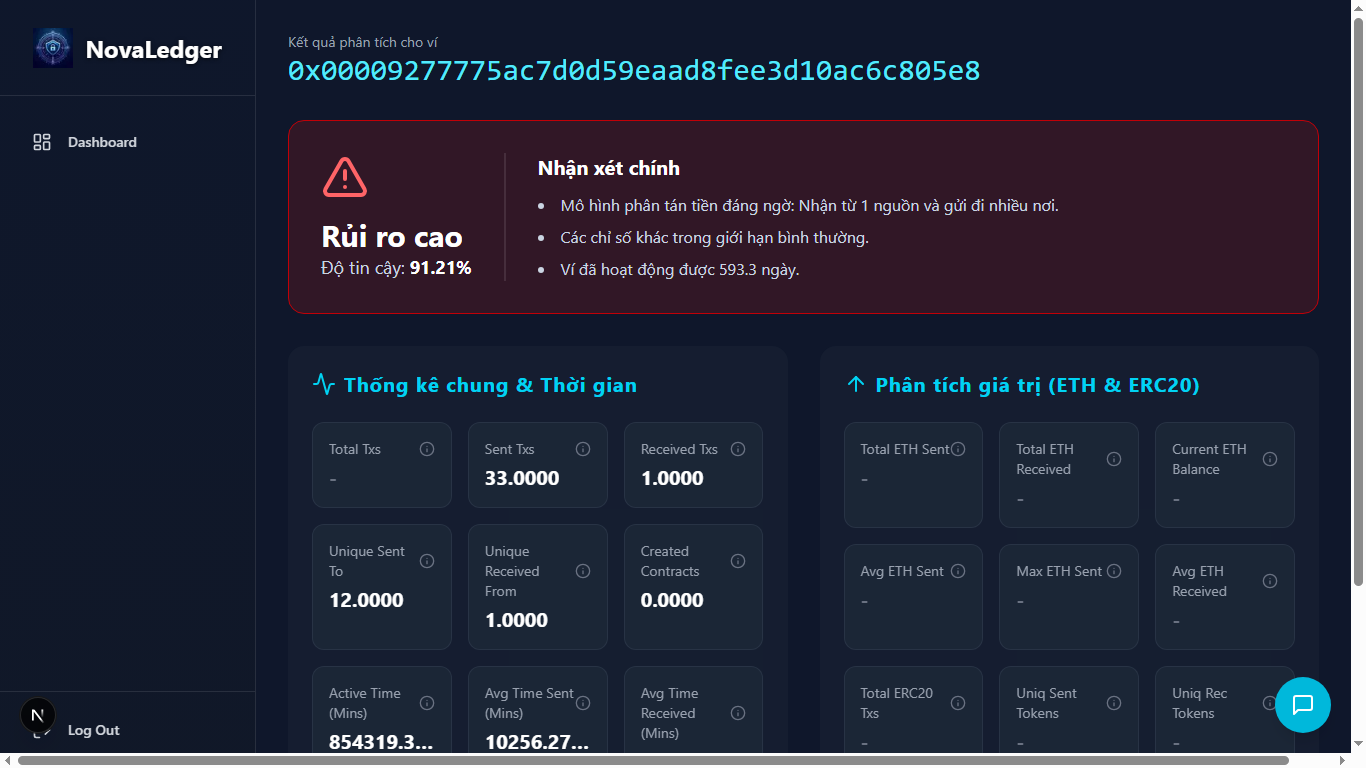
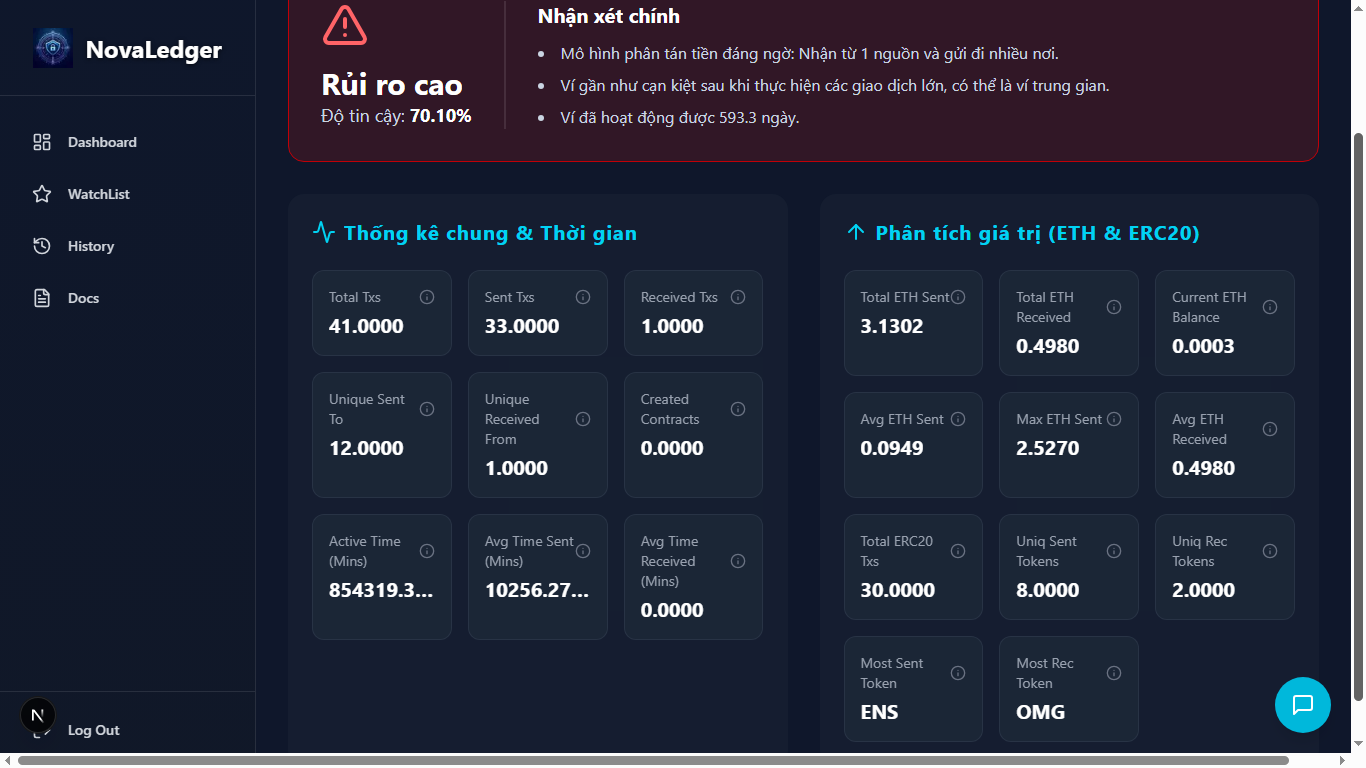
Config covalentService

diff --git a/FE_Novaledger/src/services/covalentServiece.ts b/FE_Novaledger/src/services/covalentServiece.ts
@@ -2,111 +2,188 @@ import axios from 'axios';
 import { Buffer } from 'buffer';
 import { CovalentTransaction, BalanceItem, WalletFeatures } from '@/types/analysis';
 
-const COVALENT_API_KEY = process.env.COVALENT_API_KEY;
+const COVALENT_API_KEY = process.env.COVALENT_API_KEY!;
 const CHAIN_NAME = 'eth-mainnet';
-const MAX_PAGES_TO_FETCH = 50; 
+const MAX_PAGES_TO_FETCH = 50;
 
 const headers = {
   'Authorization': `Basic ${Buffer.from(COVALENT_API_KEY + ':').toString('base64')}`
 };
 
 async function fetchAllTransactions(address: string): Promise<CovalentTransaction[]> {
-    const allItems: CovalentTransaction[] = [];
-    let pageNumber = 0;
-    let hasMore = true;
-    console.log(`Fetching all transactions for ${address}`);
+  const allItems: CovalentTransaction[] = [];
+  let pageNumber = 0;
+  let hasMore = true;
 
-    while (hasMore && pageNumber < MAX_PAGES_TO_FETCH) {
-        const url = `https://api.covalenthq.com/v1/${CHAIN_NAME}/address/${address}/transactions_v3/?page-number=${pageNumber}`;
-        try {
-            const res = await axios.get(url, { headers });
-            const data = res.data?.data;
-            if (data?.items) {
-                allItems.push(...data.items);
-                hasMore = data.pagination ? data.pagination.has_more : false;
-            } else {
-                hasMore = false;
-            }
-            pageNumber++;
-        } catch (error: any) {
-            console.error(`Covalent API Error on page ${pageNumber}: ${error.response?.data?.error_message || error.message}`);
-            hasMore = false; 
-        }
+  while (hasMore && pageNumber < MAX_PAGES_TO_FETCH) {
+    const url = `https://api.covalenthq.com/v1/${CHAIN_NAME}/address/${address}/transactions_v3/?page-number=${pageNumber}`;
+    try {
+      const res = await axios.get(url, { headers });
+      const data = res.data?.data;
+      if (data?.items) {
+        allItems.push(...data.items);
+        hasMore = data.pagination?.has_more ?? false;
+      } else {
+        hasMore = false;
+      }
+      pageNumber++;
+    } catch (error: any) {
+      console.error(`Covalent API Error on page ${pageNumber}: ${error.response?.data?.error_message || error.message}`);
+      hasMore = false;
     }
-    return allItems;
+  }
+
+  return allItems;
 }
 
 async function fetchBalance(address: string): Promise<{ items: BalanceItem[] }> {
-    const url = `https://api.covalenthq.com/v1/${CHAIN_NAME}/address/${address}/balances_v2/`;
-    const res = await axios.get(url, { headers });
-    return res.data.data;
+  const url = `https://api.covalenthq.com/v1/${CHAIN_NAME}/address/${address}/balances_v2/`;
+  const res = await axios.get(url, { headers });
+  return res.data.data;
 }
 
 function calculateAllFeatures(address: string, allTxs: CovalentTransaction[], balanceData: { items: BalanceItem[] }): WalletFeatures {
-    const addr = address.toLowerCase();
-    const features: Partial<WalletFeatures> = {};
-    const toEther = (wei: string | undefined) => (wei ? Number(BigInt(wei)) / 1e18 : 0);
-    const getStats = (arr: number[]) => {
-        if (arr.length === 0) return { min: 0, max: 0, avg: 0 };
-        const sum = arr.reduce((a, b) => a + b, 0);
-        return { min: Math.min(...arr), max: Math.max(...arr), avg: sum / arr.length };
-    };
-    const getTimeDiffs = (txs: any[]) => {
-        if (txs.length < 2) return [];
-        const ts = txs.map(tx => new Date(tx.block_signed_at).getTime()).sort((a, b) => a - b);
-        return ts.slice(1).map((t, i) => (t - ts[i]) / 60000); // In minutes
-    };
-    const getAvg = (arr: number[]) => arr.length === 0 ? 0 : arr.reduce((a, b) => a + b, 0) / arr.length;
-    const getMostCommon = (arr: (string | null)[]) => {
-        if (arr.length === 0) return null;
-        const counts = arr.reduce((acc, val) => {
-            if (val === null) return acc;
-            acc[val] = (acc[val] || 0) + 1;
-            return acc;
-        }, {} as Record<string, number>);
-        return Object.keys(counts).length > 0 ? Object.keys(counts).reduce((a, b) => counts[a] > counts[b] ? a : b) : null;
-    };
+  const addr = address.toLowerCase();
+  const features: Partial<WalletFeatures> = {};
 
-    const sentTxs = allTxs.filter(tx => tx.from_address.toLowerCase() === addr);
-    const receivedTxs = allTxs.filter(tx => tx.to_address && tx.to_address.toLowerCase() === addr);
-    const contractCreationTxs = sentTxs.filter(tx => tx.to_address === null);
-    const sentToContractTxs = sentTxs.filter(tx => tx.to_address_is_contract);
-    features.Index = 0;
-    features.Address = address;
-    features.FLAG = 0; 
+  const toEther = (wei: string | undefined) => wei ? Number(BigInt(wei)) / 1e18 : 0;
+  const getStats = (arr: number[]) => {
+    if (arr.length === 0) return { min: 0, max: 0, avg: 0 };
+    const sum = arr.reduce((a, b) => a + b, 0);
+    return { min: Math.min(...arr), max: Math.max(...arr), avg: sum / arr.length };
+  };
+  const getTimeDiffs = (txs: any[]) => {
+    if (txs.length < 2) return [];
+    const ts = txs.map(tx => new Date(tx.block_signed_at).getTime()).sort((a, b) => a - b);
+    return ts.slice(1).map((t, i) => (t - ts[i]) / 60000); // phút
+  };
+  const getAvg = (arr: number[]) => arr.length === 0 ? 0 : arr.reduce((a, b) => a + b, 0) / arr.length;
+  const getMostCommon = (arr: (string | null | undefined)[]) => {
+    const counts = arr.reduce((acc, val) => {
+      if (!val) return acc;
+      acc[val] = (acc[val] || 0) + 1;
+      return acc;
+    }, {} as Record<string, number>);
+    return Object.entries(counts).reduce((a, b) => a[1] > b[1] ? a : b, ['', 0])[0] || null;
+  };
 
-    const allTimestamps = allTxs.map(tx => new Date(tx.block_signed_at).getTime());
-    const firstTxTime = allTimestamps.length > 0 ? Math.min(...allTimestamps) : 0;
-    const lastTxTime = allTimestamps.length > 0 ? Math.max(...allTimestamps) : 0;
-    features['Time Diff between first and last (Mins)'] = allTimestamps.length > 1 ? (lastTxTime - firstTxTime) / 60000 : 0;
-    features['Avg min between sent tnx'] = getAvg(getTimeDiffs(sentTxs));
-    features['Avg min between received tnx'] = getAvg(getTimeDiffs(receivedTxs));
-    features['Sent tnx'] = sentTxs.length;
-    features['Received Tnx'] = receivedTxs.length;
-    features['Number of Created Contracts'] = contractCreationTxs.length;
-    features['Unique Received From Addresses'] = new Set(receivedTxs.map(tx => tx.from_address)).size;
-    features['Unique Sent To Addresses'] = new Set(sentTxs.map(tx => tx.to_address).filter(Boolean)).size;
-    return features as WalletFeatures;
+  const sentTxs = allTxs.filter(tx => tx.from_address.toLowerCase() === addr);
+  const receivedTxs = allTxs.filter(tx => tx.to_address?.toLowerCase() === addr);
+  const contractCreationTxs = sentTxs.filter(tx => tx.to_address === null);
+  const sentToContractTxs = sentTxs.filter(tx => tx.to_address_is_contract);
+
+  const tokenTransfers = allTxs.flatMap(tx => tx.log_events || [])
+    .filter(log => log.decoded?.name === "Transfer" && log.decoded.params)
+    .map(log => {
+      const from = log.decoded.params.find((p: any) => p.name === 'from');
+      const to = log.decoded.params.find((p: any) => p.name === 'to');
+      const value = log.decoded.params.find((p: any) => p.name === 'value');
+      return {
+        block_signed_at: log.block_signed_at,
+        from_address: from?.value,
+        to_address: to?.value,
+        to_address_is_contract: to?.is_contract,
+        token_symbol: log.sender_contract_ticker_symbol,
+        value_quote: value?.value_quote ? Number(value.value_quote) : 0
+      };
+    })
+    .filter(t => t.from_address && t.to_address);
+
+  const sentTokens = tokenTransfers.filter(t => t.from_address?.toLowerCase() === addr);
+  const receivedTokens = tokenTransfers.filter(t => t.to_address?.toLowerCase() === addr);
+  const sentTokensToContract = sentTokens.filter(t => t.to_address_is_contract);
+
+  const allTimestamps = allTxs.map(tx => new Date(tx.block_signed_at).getTime());
+  const firstTxTime = allTimestamps.length > 0 ? Math.min(...allTimestamps) : 0;
+  const lastTxTime = allTimestamps.length > 0 ? Math.max(...allTimestamps) : 0;
+
+  features.Index = 0;
+  features.Address = address;
+  features.FLAG = 0;
+
+  features['Time Diff between first and last (Mins)'] = allTimestamps.length > 1 ? (lastTxTime - firstTxTime) / 60000 : 0;
+  features['Avg min between sent tnx'] = getAvg(getTimeDiffs(sentTxs));
+  features['Avg min between received tnx'] = getAvg(getTimeDiffs(receivedTxs));
+  features['Sent tnx'] = sentTxs.length;
+  features['Received Tnx'] = receivedTxs.length;
+  features['Number of Created Contracts'] = contractCreationTxs.length;
+  features['Unique Received From Addresses'] = new Set(receivedTxs.map(tx => tx.from_address)).size;
+  features['Unique Sent To Addresses'] = new Set(sentTxs.map(tx => tx.to_address).filter(Boolean)).size;
+
+  const sentValues = sentTxs.map(tx => toEther(tx.value));
+  const recValues = receivedTxs.map(tx => toEther(tx.value));
+  const sentContractValues = sentToContractTxs.map(tx => toEther(tx.value));
+
+  const sentStats = getStats(sentValues);
+  const recStats = getStats(recValues);
+  const sentContractStats = getStats(sentContractValues);
+
+  features['min value received'] = recStats.min;
+  features['max value received'] = recStats.max;
+  features['avg val received'] = recStats.avg;
+  features['min val sent'] = sentStats.min;
+  features['max val sent'] = sentStats.max;
+  features['avg val sent'] = sentStats.avg;
+  features['min value sent to contract'] = sentContractStats.min;
+  features['max val sent to contract'] = sentContractStats.max;
+  features['avg value sent to contract'] = sentContractStats.avg;
+
+  features['total transactions (including tnx to create contract)'] = allTxs.length;
+  features['total Ether sent'] = sentValues.reduce((a, b) => a + b, 0);
+  features['total ether received'] = recValues.reduce((a, b) => a + b, 0);
+  features['total ether sent contracts'] = sentContractValues.reduce((a, b) => a + b, 0);
+
+  const ethToken = balanceData.items.find(token => token.native_token);
+  features['total ether balance'] = ethToken ? Number(ethToken.balance) / (10 ** ethToken.contract_decimals) : 0;
+
+  features['Total ERC20 tnxs'] = tokenTransfers.length;
+  features['ERC20 total Ether received'] = receivedTokens.reduce((sum, t) => sum + t.value_quote, 0);
+  features['ERC20 total ether sent'] = sentTokens.reduce((sum, t) => sum + t.value_quote, 0);
+  features['ERC20 total Ether sent contract'] = sentTokensToContract.reduce((sum, t) => sum + t.value_quote, 0);
+  features['ERC20 uniq sent addr'] = new Set(sentTokens.map(t => t.to_address)).size;
+  features['ERC20 uniq rec addr'] = new Set(receivedTokens.map(t => t.from_address)).size;
+  features['ERC20 uniq rec contract addr'] = new Set(receivedTokens.filter(t => t.to_address_is_contract).map(t => t.from_address)).size;
+  features['ERC20 avg time between sent tnx'] = getAvg(getTimeDiffs(sentTokens));
+  features['ERC20 avg time between rec tnx'] = getAvg(getTimeDiffs(receivedTokens));
+  features['ERC20 avg time between contract tnx'] = getAvg(getTimeDiffs(sentTokensToContract));
+
+  const erc20SentStats = getStats(sentTokens.map(t => t.value_quote));
+  const erc20RecStats = getStats(receivedTokens.map(t => t.value_quote));
+  const erc20SentContractStats = getStats(sentTokensToContract.map(t => t.value_quote));
+
+  features['ERC20 min val rec'] = erc20RecStats.min;
+  features['ERC20 max val rec'] = erc20RecStats.max;
+  features['ERC20 avg val rec'] = erc20RecStats.avg;
+  features['ERC20 min val sent'] = erc20SentStats.min;
+  features['ERC20 max val sent'] = erc20SentStats.max;
+  features['ERC20 avg val sent'] = erc20SentStats.avg;
+  features['ERC20 min val sent contract'] = erc20SentContractStats.min;
+  features['ERC20 max val sent contract'] = erc20SentContractStats.max;
+  features['ERC20 avg val sent contract'] = erc20SentContractStats.avg;
+
+  features['ERC20 uniq sent token name'] = new Set(sentTokens.map(t => t.token_symbol)).size;
+  features['ERC20 uniq rec token name'] = new Set(receivedTokens.map(t => t.token_symbol)).size;
+  features['ERC20 most sent token type'] = getMostCommon(sentTokens.map(t => t.token_symbol));
+  features['ERC20 most rec token type'] = getMostCommon(receivedTokens.map(t => t.token_symbol));
+
+  return features as WalletFeatures;
 }
+
 export async function analyzeWalletAddress(address: string): Promise<WalletFeatures> {
-    try {
-        console.log(`Starting analysis for address: ${address}`);
-        
-        const [allTxs, balanceData] = await Promise.all([
-            fetchAllTransactions(address),
-            fetchBalance(address),
-        ]);
+  try {
+    console.log(`Starting analysis for address: ${address}`);
 
-        console.log(`Fetched ${allTxs.length} transactions.`);
-        console.log(`Calculating features...`);
-        
-        const features = calculateAllFeatures(address, allTxs, balanceData);
-        
-        console.log(`Analysis complete for ${address}`);
-        return features;
+    const [allTxs, balanceData] = await Promise.all([
+      fetchAllTransactions(address),
+      fetchBalance(address),
+    ]);
 
-    } catch (error) {
-        console.error(`Critical error analyzing wallet ${address}:`, error);
-        throw new Error(`Failed to analyze wallet ${address}.`);
-    }
+    const features = calculateAllFeatures(address, allTxs, balanceData);
+    console.log(`Analysis complete for ${address}`);
+    return features;
+
+  } catch (error: any) {
+    console.error(`Failed to analyze wallet ${address}:`, error.message);
+    throw error;
+  }
 }

diff --git a/FE_Novaledger/src/app/analysis/[searchTerm]/page.tsx b/FE_Novaledger/src/app/analysis/[searchTerm]/page.tsx
@@ -59,7 +59,7 @@ export default async function AnalysisPage({ params }: { params: { searchTerm: s
   const generalStats = { 'Total Txs': features['total transactions (including tnx to create contract)'], 'Sent Txs': features['Sent tnx'], 'Received Txs': features['Received Tnx'], 'Unique Sent To': features['Unique Sent To Addresses'], 'Unique Received From': features['Unique Received From Addresses'], 'Created Contracts': features['Number of Created Contracts'], };
   const timeStats = { 'Active Time (Mins)': features['Time Diff between first and last (Mins)'], 'Avg Time Sent (Mins)': features['Avg min between sent tnx'], 'Avg Time Received (Mins)': features['Avg min between received tnx'], };
   const ethValueStats = { 'Total ETH Sent': features['total Ether sent'], 'Total ETH Received': features['total ether received'], 'Current ETH Balance': features['total ether balance'], 'Avg ETH Sent': features['avg val sent'], 'Max ETH Sent': features['max val sent'], 'Avg ETH Received': features['avg val received'], };
-  const erc20Stats = { 'Total ERC20 Txs': features['Total ERC20 tnxs'], 'Uniq Sent Tokens': features['ERC20 uniq sent token name'], 'Uniq Rec Tokens': features['ERC20 uniq rec token name'], 'Most Sent Token': features['ERC20 most sent token type'], 'Most Rec Token': features['ERC20_most_rec_token_type'], };
+  const erc20Stats = { 'Total ERC20 Txs': features['Total ERC20 tnxs'], 'Uniq Sent Tokens': features['ERC20 uniq sent token name'], 'Uniq Rec Tokens': features['ERC20 uniq rec token name'], 'Most Sent Token': features['ERC20 most sent token type'], 'Most Rec Token': features['ERC20 most rec token type'], };
 
   return (
     <div className="p-4 md:p-8 text-white">
